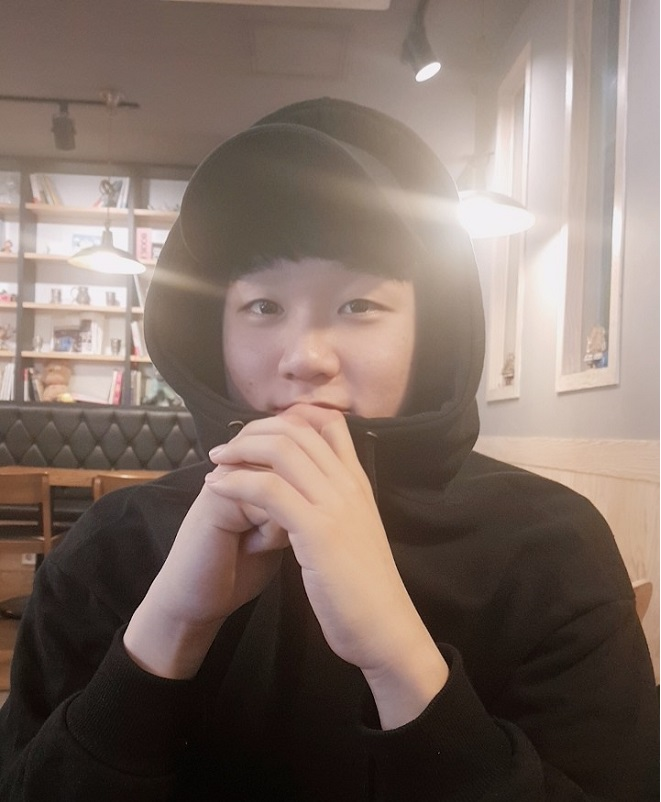
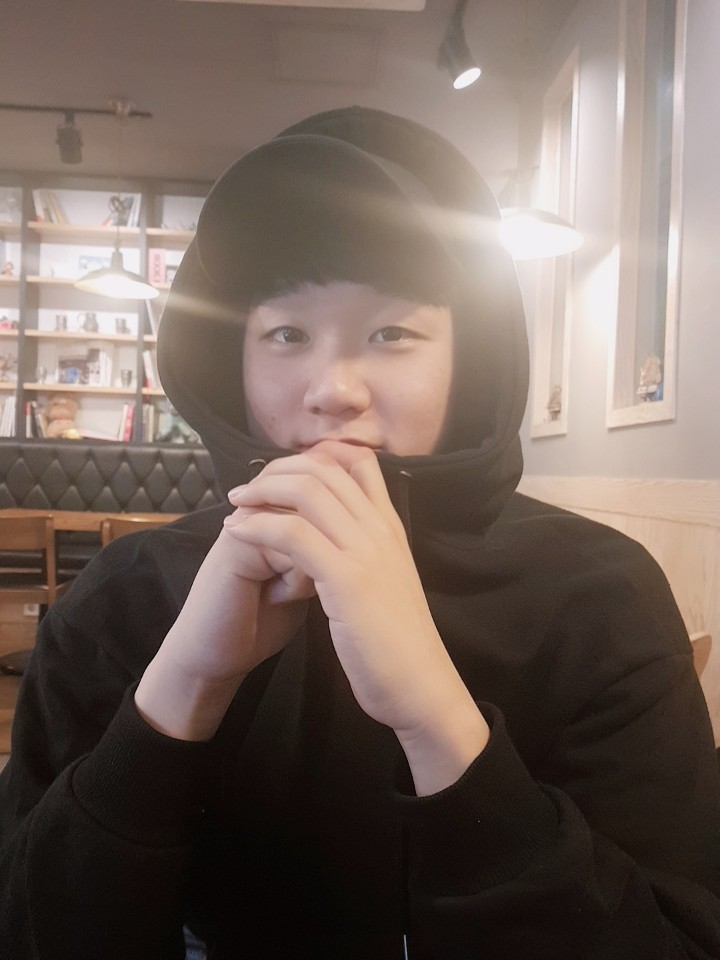
mobile version mediaQuery update

diff --git a/src/components/Main.js b/src/components/Main.js
@@ -20,12 +20,13 @@ const useStyles = makeStyles((theme) => ({
     },
     paper: {
         display: 'flex',
+        justifyContent : 'center',
         backgroundColor: 'rgb(179, 178, 178)',
         borderRadius: '20px 20px 20px 20px',
         color: 'white',
         boxShadow: theme.shadows[5],
         padding: theme.spacing(2, 4, 3),
-        width: '900px',
+        width: '60%',
         height: '450px',
         outline: '0px'
     },
@@ -176,10 +177,10 @@ function Main() {
                 <div className="rain4 rain"></div>
                 <div className="rain5 rain"></div>
             </div>
-           
+
             <div id="TOP" ></div>
             <div className="Logo" onClick={GoTop}></div>
-            
+
             <div className="MenuIcon"></div>
 
 
@@ -191,7 +192,7 @@ function Main() {
                         I love Front-end.
                         This can help me communicate to user.
                         Especially i enjoying React.
-                        and also love learn new skills.<br/>
+                        and also love learn new skills.<br />
                         I Always have a challenging attitude to everyting <br />
                         Finally, I Love every sports play with a ball :)
                         </p>
@@ -293,14 +294,14 @@ function Main() {
                 <div id="PROJECT" className="Main_project">
                     <h1>My Project</h1>
 
-                        <div className="project_item1 pjitem" onClick={handleOpen}>
-                            <div className="project_img1 pjimg"></div>
-                            <div className="project_des1 desc">
-                                <p>구구단 학습 반응형 웹앱(2020)</p>
-                                <p>RESPONSIVE WEB</p>
-                            </div>
+                    <div className="project_item1 pjitem" onClick={handleOpen}>
+                        <div className="project_img1 pjimg"></div>
+                        <div className="project_des1 desc">
+                            <p>구구단 학습 반응형 웹앱(2020)</p>
+                            <p>RESPONSIVE WEB</p>
                         </div>
-                   
+                    </div>
+
                     <div className="project_item2 pjitem" onClick={handleOpen2}>
                         <div className="project_img2 pjimg" ></div>
                         <div className="project_des2 desc">
@@ -338,13 +339,13 @@ function Main() {
             >
                 <Fade in={open}>
                     <div className={classes.paper}>
-
                         <button className="ImgControlBtn leftBtn" onClick={minusIndex}>◁</button>
-
                         <div className="Modal_ImgContainer">
                             <img className="Modal_img" src={require(`../Images/PJ1/${pj1Arr[imgidx]}.PNG`)}></img>
                         </div>
                         <button className="ImgControlBtn rightBtn" onClick={plusIndex}>▷</button>
+
+                           
 
                         <div className="Modal_textContainer">
                             <h2> 반응형 구구단 학습 웹앱</h2>

diff --git a/src/CSSs/Main.css b/src/CSSs/Main.css
@@ -421,8 +421,8 @@
     }
     .desc{
         display: none;
-        width: 50%;
-        height: 80px;
+        width: 80%;
+        height: 60px;
         margin-left: auto;
         margin-right: auto;
         background-color: rgb(201, 196, 196);
@@ -431,53 +431,39 @@
         font-family: BMJ;
     }
     .desc p:nth-child(1){
-        font-size: 23px;
+        font-size: 18px;
         padding-top: 6px;
     }
     .desc p {
         text-align: center;
-        font-size: 20px;
+        font-size: 15px;
     }
     
     /* ======================================= 프로젝트 hover시 일어나는 동작 === */
-    @keyframes goingup {
-        from{
-            margin-top: -20px;
-            opacity: 0;
-        }
-        to{
-            margin-top: -70px;
-            opacity: 1;
-        }
-    }
-    .project_item1:hover{cursor: pointer;}
-    .project_item1:hover > .project_des1{
+   
+    .project_des1{
         display: block;
+        margin-top: -60px;
         z-index: 1;
-        animation: goingup 1s;
-        animation-fill-mode: forwards;
     }
-    .project_item2:hover{cursor: pointer;}
-    .project_item2:hover > .project_des2{
+    .project_des2{
         display: block;
+        margin-top: -60px;
         z-index: 1;
-        animation: goingup 1s;
-        animation-fill-mode: forwards;
     }
-    .project_item3:hover{cursor: pointer;}
-    .project_item3:hover > .project_des3{
+    .project_des3{
         display: block;
+        margin-top: -60px;
         z-index: 1;
-        animation: goingup 1s;
-        animation-fill-mode: forwards;
     }
     
     
     /* =============================================== 모달관련 ======= */
+  
     .Modal_ImgContainer{
-        display: inline-block;
-        width: 500px;
-        height: 350px;
+        display: none;
+        width: 80%;
+        height: 150px;
         margin-top: 50px;
     }
     .Modal_img{
@@ -487,16 +473,18 @@
         background-size: cover;
     }
     .Modal_textContainer{
-        display: inline-block;
+        display: block;
         width: 300px;
         height: 200px;
         font-family: BMJ;
-        font-size: 17px;
+        font-size: 12px;
         margin-left: 30px;
         margin-top: 90px;
     }
     .ImgControlBtn{
-        height: 200px;
+        width: 10%;
+        display: none;
+        height: 70px;
         background-color: transparent;
         border: none;
         outline: none;
@@ -538,6 +526,7 @@
     /* ===================================== a태그, 깃허브 */
     .Atag_line{
         display: flex;
+        width: 100%;
         justify-content: center;
     }
     .Atag {
@@ -547,7 +536,6 @@
         margin-right: 10px;
     }
     .btn2{
-        margin-left: 50px;
     }
 }
 @media screen and (min-width: 1280px) {
@@ -660,7 +648,7 @@
         background-color: #c3d37d;
     }
     .btn1{
-        display: none;
+        display: block;
         margin-top: 150px;
         margin-left: auto;
         margin-right: auto;

diff --git a/src/CSSs/Photo.css b/src/CSSs/Photo.css
@@ -13,7 +13,7 @@
     /* front pane, placed above back */
     .front{
         z-index:2;
-        background:url('../Images/Myphoto2.jpg');
+        background:url('../Images/Myphoto3.jpg');
         transform: rotateY(0deg);
         background-size: cover;
         background-repeat: no-repeat;
